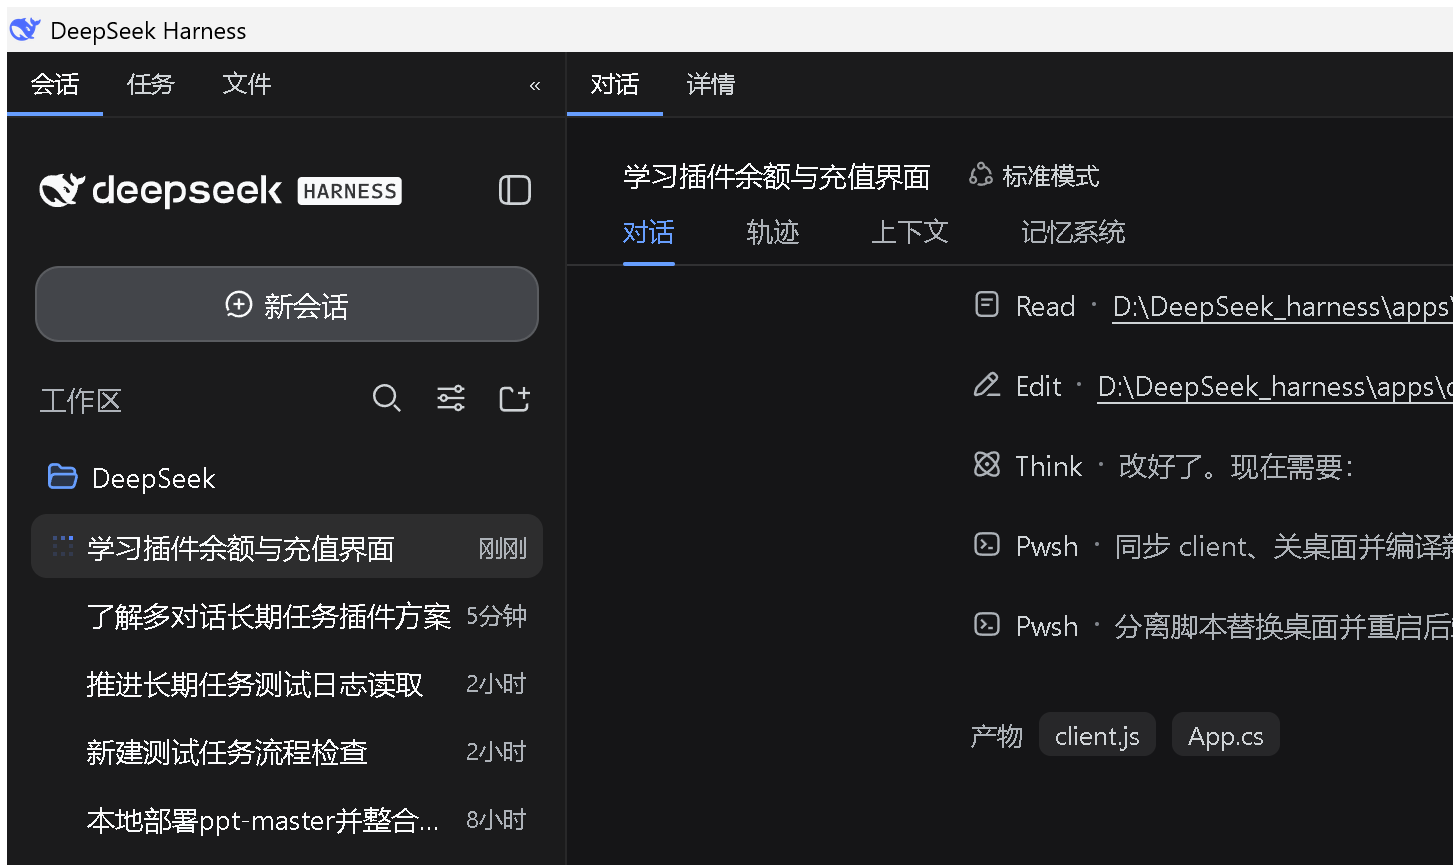
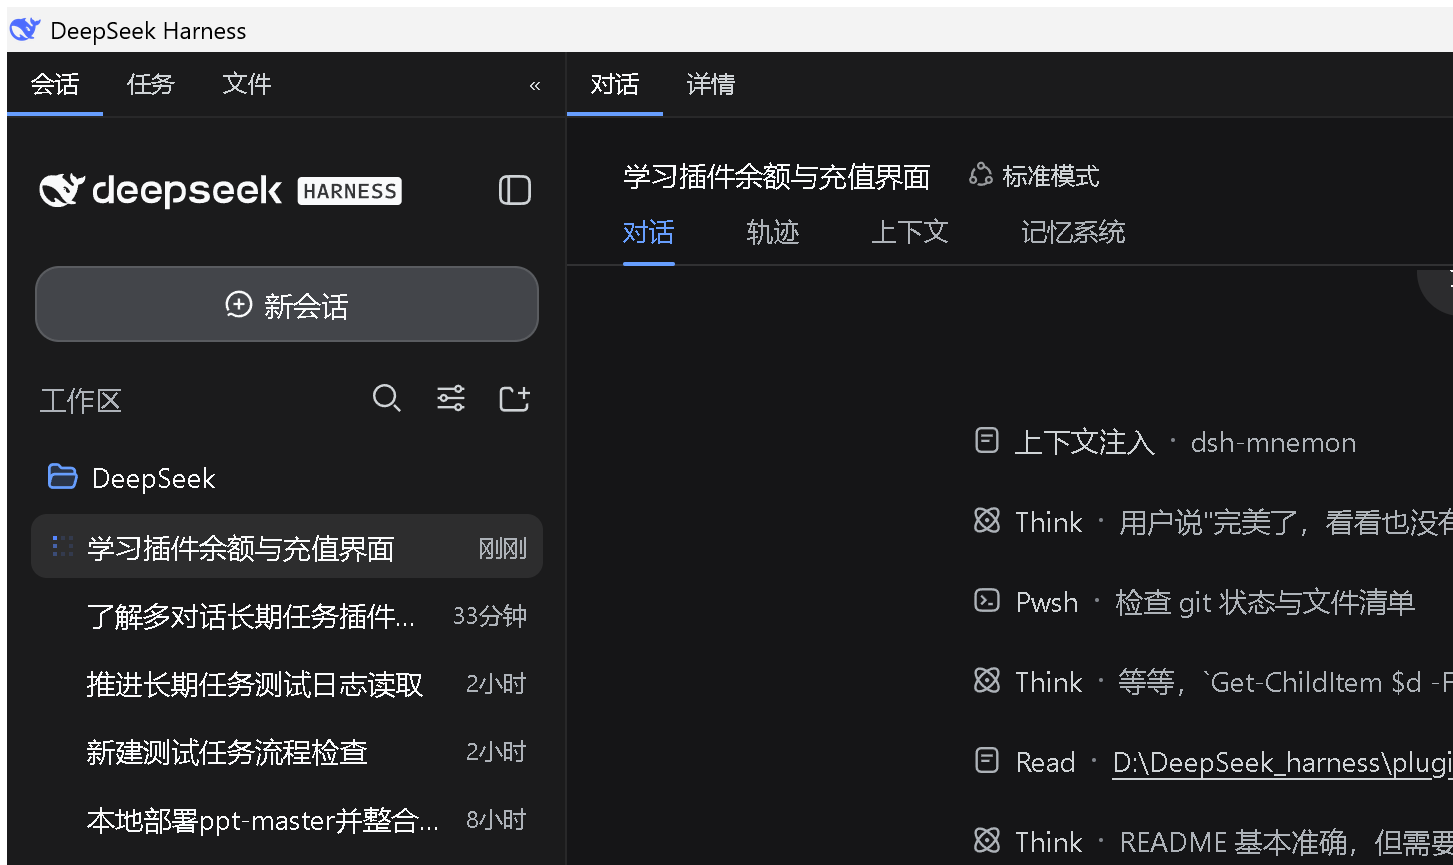
release: v1.0.0 明细入口改为官方用量页、16:9 纯净弹窗、胶囊对齐、峰谷标注

diff --git a/lib/client.js b/lib/client.js
@@ -33,6 +33,7 @@ window.__ModuleLoader__.load({
     const COST_POLL_MS = 5000;
     const RECHARGE_URL = 'https://platform.deepseek.com/top_up';
     const API_KEYS_URL = 'https://platform.deepseek.com/api_keys';
+    const USAGE_URL = 'https://platform.deepseek.com/usage';
 
     function fmt(v) {
       const n = Number(v);
@@ -55,8 +56,8 @@ window.__ModuleLoader__.load({
 .dsw-dot{width:8px;height:8px;border-radius:50%;background:var(--dsw-alias-state-warn-primary);flex:none;}
 .dsw-dot-ok{width:8px;height:8px;border-radius:50%;background:var(--dsw-alias-state-success-primary);flex:none;}
 .dsw-bal-row{display:flex;align-items:center;justify-content:space-between;gap:8px;}
-.dsw-bal-cur{color:var(--dsw-alias-label-secondary);font-size:11px;line-height:14px;display:inline-flex;align-items:flex-start;gap:5px;}
-.dsw-band{display:inline-flex;align-items:center;justify-content:center;padding:0 6px;border-radius:999px;font-size:10px;line-height:1;font-weight:600;flex:none;white-space:nowrap;box-sizing:border-box;}
+.dsw-bal-cur{color:var(--dsw-alias-label-secondary);font-size:11px;line-height:1.4;display:inline-flex;align-items:flex-start;gap:5px;}
+.dsw-band{display:inline-flex;align-items:center;justify-content:center;padding:0 6px;border-radius:999px;font-size:11px;line-height:1.4;font-weight:600;flex:none;white-space:nowrap;box-sizing:border-box;}
 .dsw-band.base{background:var(--dsw-alias-bg-layer-3);color:var(--dsw-alias-label-secondary);}
 .dsw-band.peak{background:color-mix(in srgb,var(--dsw-alias-state-warn-primary) 22%,transparent);color:var(--dsw-alias-state-warn-primary);}
 .dsw-band.offpeak{background:color-mix(in srgb,var(--dsw-alias-state-success-primary) 20%,transparent);color:var(--dsw-alias-state-success-primary);}
@@ -100,7 +101,6 @@ window.__ModuleLoader__.load({
       );
       const [view, setView] = React.useState(null);
       const [cost, setCost] = React.useState(null);
-      const [open, setOpen] = React.useState(false);
       const labelRef = React.useRef(null);
       const bandRef = React.useRef(null);
 
@@ -190,17 +190,11 @@ window.__ModuleLoader__.load({
             ),
           ) : h('span', { className: 'dsw-cost-val' }, costTotal !== undefined ? ('¥' + fmt(costTotal)) : '--'),
         ),
-        open && view && view.balances.length ? h('div', { className: 'dsw-detail' },
-          view.balances.map((b) => h('div', { key: b.currency, className: 'dsw-detail-row' },
-            h('span', { className: 'dsw-detail-label' }, b.currency + ' 赠金 / 充值'),
-            h('span', { className: 'dsw-detail-val' }, fmt(Number(b.granted_balance)) + ' / ' + fmt(Number(b.topped_up_balance))),
-          )),
-        ) : null,
         h('div', { className: 'dsw-hint' }, statusLine),
         h('div', { className: 'dsw-dock-btns' },
           h('button', { type: 'button', className: 'dsw-btn dsw-primary', onClick: () => openUrl(RECHARGE_URL) }, '充值'),
           h('button', { type: 'button', className: 'dsw-btn', onClick: () => openUrl(API_KEYS_URL) }, 'API Key'),
-          h('button', { type: 'button', className: 'dsw-btn', onClick: () => setOpen((o) => !o) }, open ? '收起' : '明细'),
+          h('button', { type: 'button', className: 'dsw-btn', onClick: () => openUrl(USAGE_URL) }, '明细'),
         ),
       );
     }

diff --git a/README.md b/README.md
@@ -12,6 +12,7 @@ DeepSeek Harness（DSH）钱包插件 —— 在左栏底部常驻显示 **DeepS
 | 低余额告警 | CNY < ¥10 或 USD < $2 时面板标红提醒充值 |
 | 一键充值 | 点击「充值」在 **DSH 窗口内**打开官方充值页 `platform.deepseek.com/top_up`（不弹系统浏览器） |
 | API Key | 自动读取 DSH 凭据 `DEEPSEEK_API_KEY`，点击「API Key」在 DSH 窗口内打开官方 Keys 页 |
+| 用量明细 | 点击「明细」在 DSH 窗口内打开官方用量页 `platform.deepseek.com/usage` |
 | 模型工具 | 注册 `query_deepseek_balance`，直接问「余额还剩多少」AI 也能答 |
 
 ## 🖼 界面
